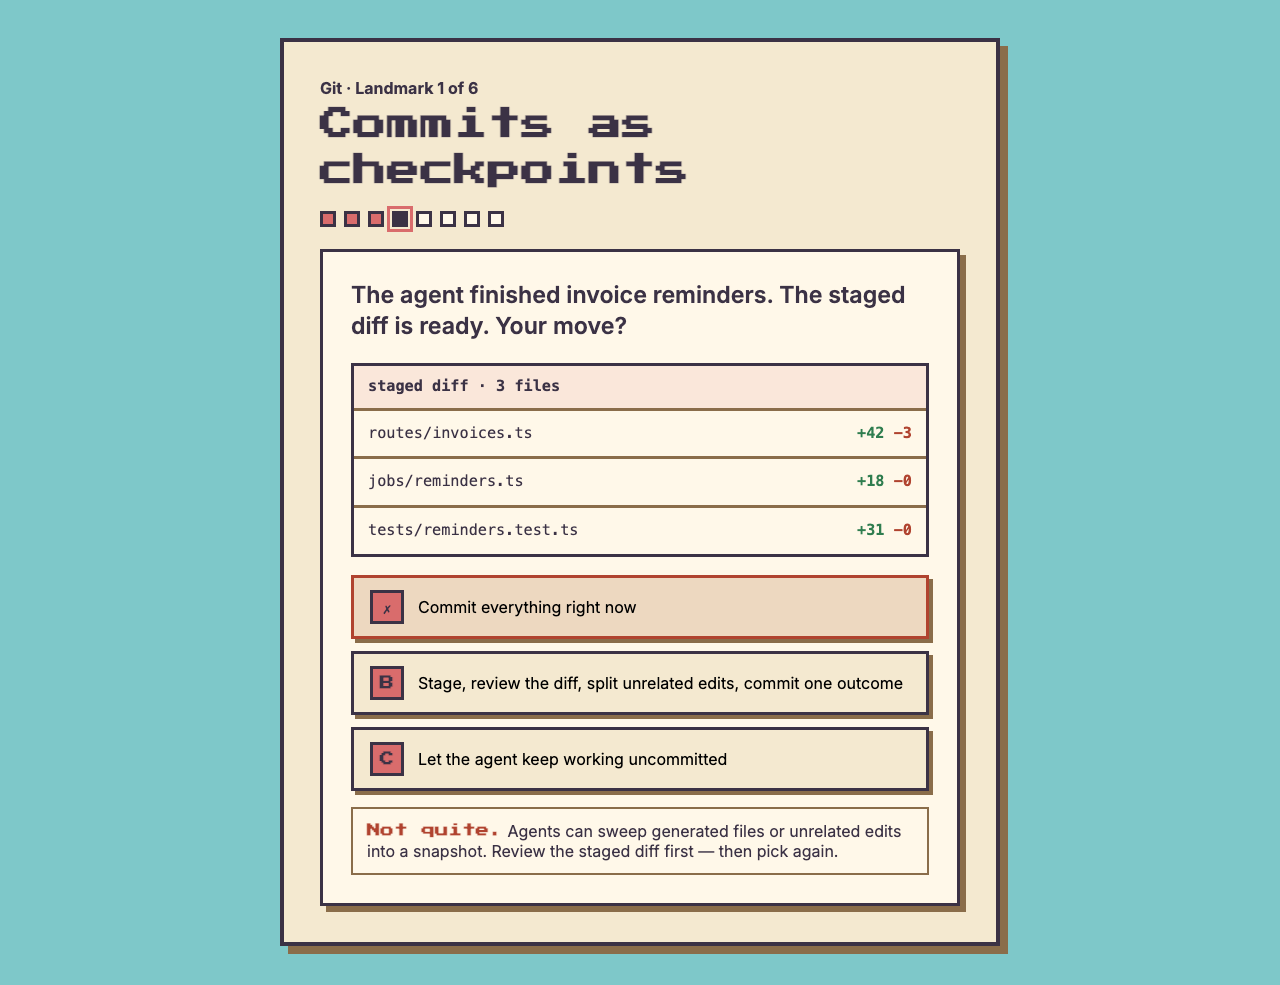
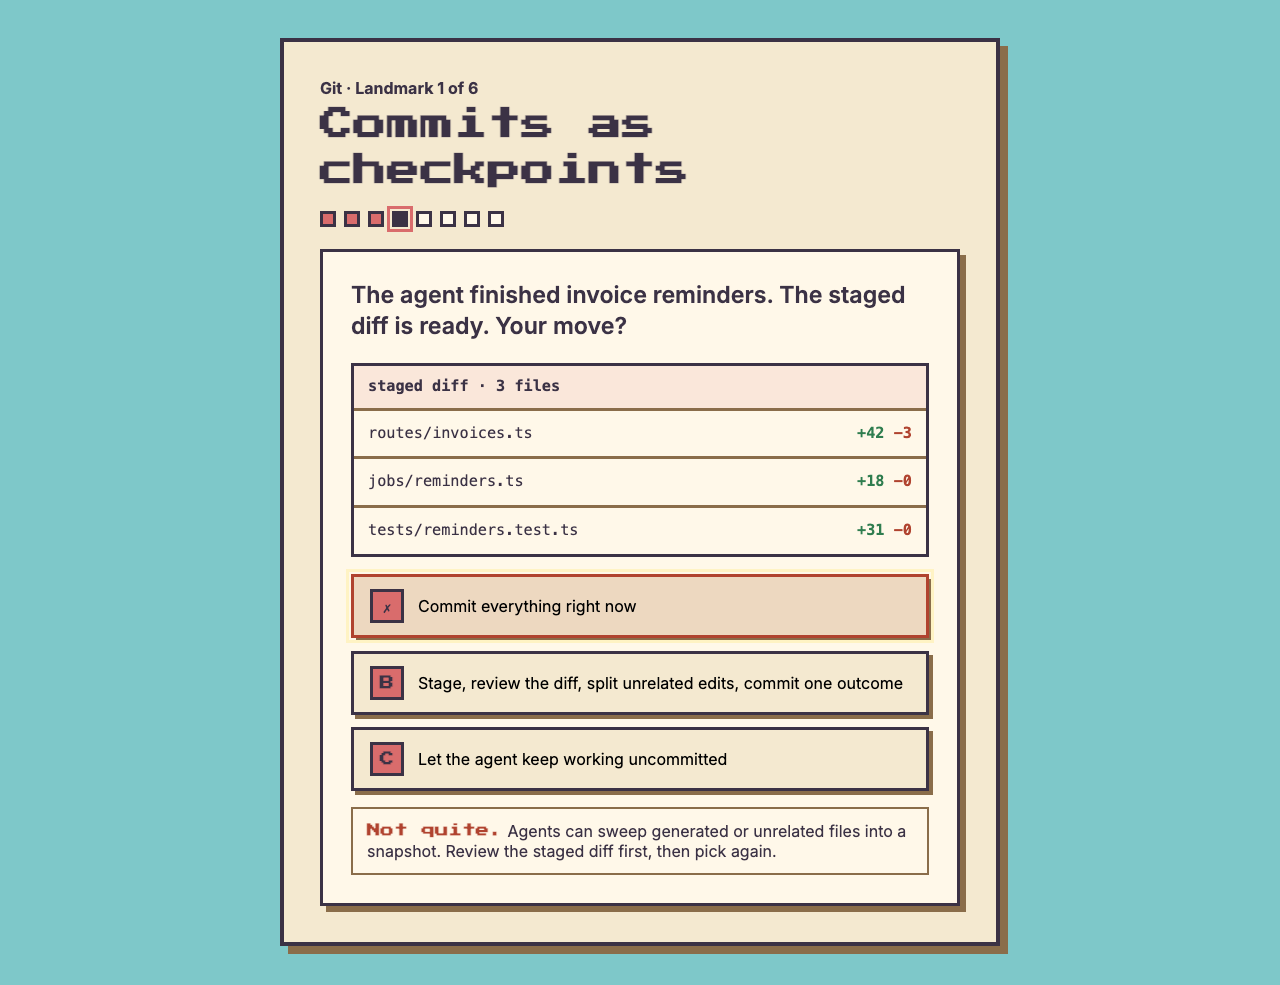
feat(engagement-v2): E-002 comps are a working prototype — deterministic state machine + interaction smoke test
Comps previously rendered clickable-looking controls with no behavior. beat-comps.html
now runs the predict feedback / scenario retry / stamp / next-landmark path for real;
scripts/test-beat-comps.mjs proves it headlessly and render-comps.mjs drives captures
through the prototype controller.

Changed region(s): [[0.25, 0.5787, 0.75, 0.6701], [0.2812, 0.8223, 0.7188, 0.8832]]

diff --git a/designs/comps/engagement-v2/beat-comps.html b/designs/comps/engagement-v2/beat-comps.html
@@ -20,6 +20,7 @@
   }
   * { box-sizing: border-box; }
   body { margin: 0; background: var(--sea); color: var(--ink); font-family: var(--body); }
+  [data-comp][hidden], [hidden] { display: none !important; }
 
   .stage { min-height: 100vh; padding: clamp(16px, 3vw, 40px); padding-inline: max(clamp(16px, 3vw, 40px), 24px); display: grid; place-items: start center; }
   .panel {
@@ -54,10 +55,14 @@
   .choice .key { flex: none; display: grid; place-items: center; width: 34px; height: 34px; border: 3px solid var(--ink); background: var(--accent); color: var(--ink); font: 700 0.9rem/1 var(--pixel); }
   .choice.is-correct { border-color: #2f7d4f; background: color-mix(in srgb, #2f7d4f 14%, var(--banner)); }
   .choice.is-wrong { border-color: #b0432f; background: color-mix(in srgb, #b0432f 10%, var(--banner)); }
+  .choice.is-selected { border-color: var(--accent); background: color-mix(in srgb, var(--accent) 12%, var(--banner)); }
   .feedback { margin: 16px 0 0; padding: 12px 14px; border: 2px solid var(--banner-border); background: var(--paper); font-size: 1rem; }
   .feedback strong { font-family: var(--pixel); font-size: 0.85rem; }
   .feedback.ok strong { color: #2f7d4f; }
   .feedback.no strong { color: #b0432f; }
+  .feedback.info strong { color: var(--ink); }
+  .prototype-action { width: 100%; margin-top: 16px; }
+  .prototype-status { width: 100%; margin: 0; text-align: left; }
 
   .diff { margin: 0 0 18px; border: 3px solid var(--ink); background: var(--paper); font: 500 0.95rem/1.7 ui-monospace, "SF Mono", Menlo, monospace; }
   .diff .file { display: grid; grid-template-columns: minmax(0, 1fr) auto; gap: 6px 12px; padding: 10px 14px; border-bottom: 3px solid var(--banner-border); }
@@ -119,12 +124,14 @@
     </ol>
     <div class="beat-card">
       <p class="prompt">Your agent just changed invoice reminders across a route, a queue, and tests. What belongs in the checkpoint?</p>
-      <ul class="choices">
-        <li><button class="choice" type="button"><span class="key">A</span>One reviewed change that passes its checks</button></li>
-        <li><button class="choice" type="button"><span class="key">B</span>Everything it touched so far</button></li>
-        <li><button class="choice" type="button"><span class="key">C</span>Wait and batch more changes first</button></li>
+      <ul class="choices" aria-label="Prediction choices">
+        <li><button class="choice" type="button" data-predict="reviewed" aria-pressed="false"><span class="key">A</span>One reviewed change that passes its checks</button></li>
+        <li><button class="choice" type="button" data-predict="everything" aria-pressed="false"><span class="key">B</span>Everything it touched so far</button></li>
+        <li><button class="choice" type="button" data-predict="batch" aria-pressed="false"><span class="key">C</span>Wait and batch more changes first</button></li>
       </ul>
       <p class="hint">Take your best guess. You won't lose anything.</p>
+      <p class="feedback info" id="fb1" role="status" aria-live="polite" hidden></p>
+      <button class="btn primary prototype-action" id="to-scenario" type="button" hidden>See the worked example →</button>
     </div>
   </article>
 </section>
@@ -147,12 +154,13 @@
         <div class="file"><span title="jobs/reminders.ts">jobs/reminders.ts</span><span class="delta"><span class="add">+18</span> <span class="del">−0</span></span></div>
         <div class="file"><span title="tests/reminders.test.ts">tests/reminders.test.ts</span><span class="delta"><span class="add">+31</span> <span class="del">−0</span></span></div>
       </div>
-      <ul class="choices">
-        <li><button class="choice is-wrong" type="button" aria-describedby="fb2"><span class="key">✗</span>Commit everything right now</button></li>
-        <li><button class="choice" type="button"><span class="key">B</span>Stage, review the diff, split unrelated edits, commit one outcome</button></li>
-        <li><button class="choice" type="button"><span class="key">C</span>Let the agent keep working uncommitted</button></li>
+      <ul class="choices" aria-label="Scenario choices">
+        <li><button class="choice" type="button" data-scenario="commit-now" data-key="A" aria-pressed="false" aria-describedby="fb2"><span class="key">A</span>Commit everything right now</button></li>
+        <li><button class="choice" type="button" data-scenario="review-split" data-key="B" aria-pressed="false" aria-describedby="fb2"><span class="key">B</span>Stage, review the diff, split unrelated edits, commit one outcome</button></li>
+        <li><button class="choice" type="button" data-scenario="keep-working" data-key="C" aria-pressed="false" aria-describedby="fb2"><span class="key">C</span>Let the agent keep working uncommitted</button></li>
       </ul>
-      <p class="feedback no" id="fb2"><strong>Not quite.</strong> Agents can sweep generated files or unrelated edits into a snapshot. Review the staged diff first — then pick again.</p>
+      <p class="feedback" id="fb2" role="status" aria-live="polite" hidden></p>
+      <button class="btn primary prototype-action" id="to-stamp" type="button" hidden>Stamp this lesson →</button>
     </div>
   </article>
 </section>
@@ -173,11 +181,99 @@
       </div>
       <p class="region-line">Git River — <b>1 of 6</b> stamped</p>
       <div class="next-actions">
-        <a class="btn primary" href="#">Next: Branches as isolation →</a>
-        <a class="btn secondary" href="#">Back to map</a>
+        <a class="btn primary" id="prototype-next" href="#next">Next: Branches as isolation →</a>
+        <a class="btn secondary" id="prototype-back" href="#map">Back to map</a>
       </div>
+      <p class="feedback info prototype-status" id="prototype-status" role="status" aria-live="polite" hidden></p>
     </div>
   </article>
 </section>
+<script>
+  (() => {
+    const compNames = ['01-predict-card', '02-scenario-diff', '03-stamp-next'];
+
+    function showComp(name, { focus = true } = {}) {
+      if (!compNames.includes(name)) return;
+      for (const section of document.querySelectorAll('[data-comp]')) {
+        section.hidden = section.dataset.comp !== name;
+      }
+      const active = document.querySelector(`[data-comp="${name}"]`);
+      if (focus && active) {
+        const heading = active.querySelector('h1');
+        heading?.setAttribute('tabindex', '-1');
+        heading?.focus({ preventScroll: true });
+      }
+      active?.scrollIntoView({ block: 'start', behavior: 'auto' });
+    }
+
+    function clearChoices(buttons) {
+      for (const button of buttons) {
+        button.classList.remove('is-selected', 'is-correct', 'is-wrong');
+        button.setAttribute('aria-pressed', 'false');
+        const key = button.querySelector('.key');
+        if (key && button.dataset.key) key.textContent = button.dataset.key;
+      }
+    }
+
+    const predictionCopy = {
+      reviewed: '<strong>Strong prediction.</strong> A checkpoint should hold one reviewed change that passes its checks, so it is safe to inspect or undo.',
+      everything: '<strong>Useful prediction.</strong> “Everything so far” can hide unrelated edits. A stronger checkpoint contains one reviewed change that passes its checks.',
+      batch: '<strong>Useful prediction.</strong> Waiting makes the checkpoint harder to inspect. Smaller reviewed outcomes are easier to understand and recover.'
+    };
+
+    const predictButtons = [...document.querySelectorAll('[data-predict]')];
+    const predictFeedback = document.querySelector('#fb1');
+    const toScenario = document.querySelector('#to-scenario');
+    for (const button of predictButtons) {
+      button.addEventListener('click', () => {
+        clearChoices(predictButtons);
+        button.classList.add('is-selected');
+        button.setAttribute('aria-pressed', 'true');
+        predictFeedback.innerHTML = predictionCopy[button.dataset.predict];
+        predictFeedback.hidden = false;
+        toScenario.hidden = false;
+      });
+    }
+    toScenario.addEventListener('click', () => showComp('02-scenario-diff'));
+
+    const scenarioButtons = [...document.querySelectorAll('[data-scenario]')];
+    const scenarioFeedback = document.querySelector('#fb2');
+    const toStamp = document.querySelector('#to-stamp');
+    for (const button of scenarioButtons) {
+      button.addEventListener('click', () => {
+        clearChoices(scenarioButtons);
+        button.setAttribute('aria-pressed', 'true');
+        const key = button.querySelector('.key');
+        const correct = button.dataset.scenario === 'review-split';
+        button.classList.add(correct ? 'is-correct' : 'is-wrong');
+        if (key) key.textContent = correct ? '✓' : '✗';
+        scenarioFeedback.className = `feedback ${correct ? 'ok' : 'no'}`;
+        scenarioFeedback.innerHTML = correct
+          ? '<strong>Good call.</strong> Review first, separate unrelated edits, and commit one inspectable outcome.'
+          : button.dataset.scenario === 'commit-now'
+            ? '<strong>Not quite.</strong> Agents can sweep generated or unrelated files into a snapshot. Review the staged diff first, then pick again.'
+            : '<strong>Not quite.</strong> More uncommitted work makes recovery harder. Review what is ready and checkpoint one outcome now.';
+        scenarioFeedback.hidden = false;
+        toStamp.hidden = !correct;
+      });
+    }
+    toStamp.addEventListener('click', () => showComp('03-stamp-next'));
+
+    const status = document.querySelector('#prototype-status');
+    document.querySelector('#prototype-next').addEventListener('click', (event) => {
+      event.preventDefault();
+      status.innerHTML = '<strong>Prototype complete.</strong> The production player opens “Branches as isolation” here.';
+      status.hidden = false;
+    });
+    document.querySelector('#prototype-back').addEventListener('click', (event) => {
+      event.preventDefault();
+      status.innerHTML = '<strong>Prototype complete.</strong> The production player returns to the Git River map here.';
+      status.hidden = false;
+    });
+
+    window.__beatPrototype = { showComp };
+    showComp('01-predict-card', { focus: false });
+  })();
+</script>
 </body>
 </html>
